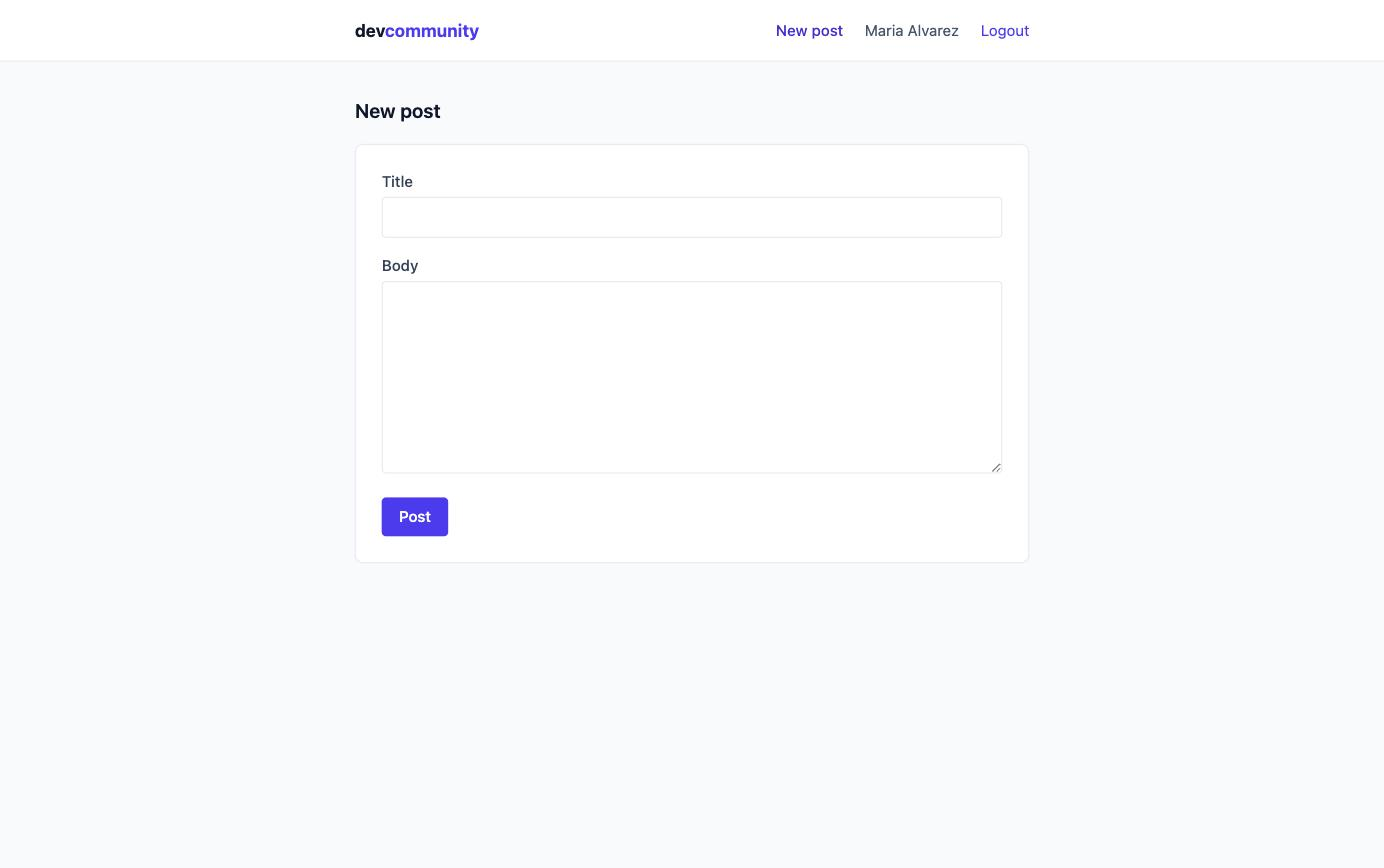
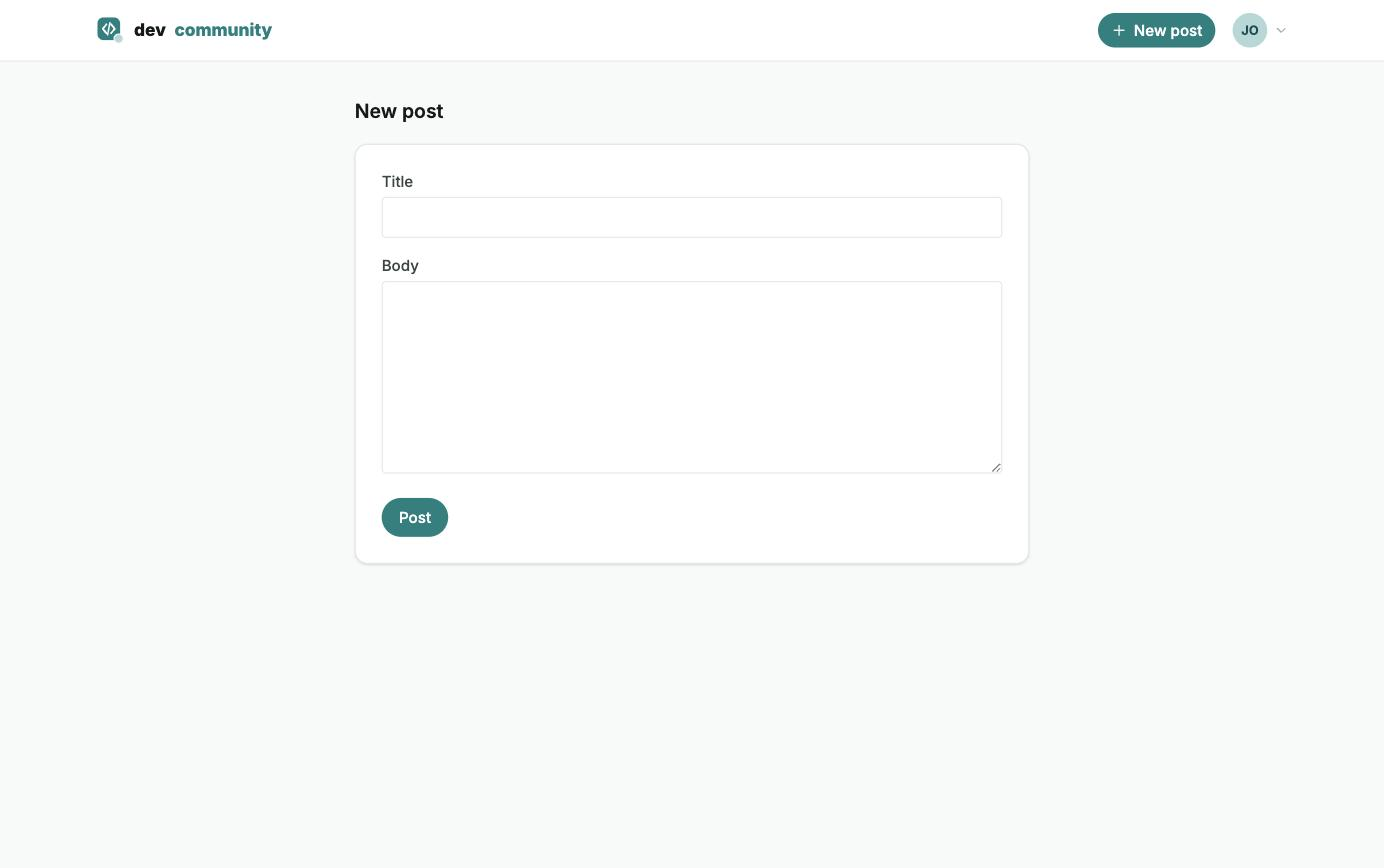
Document the Reddit redesign as phase 4, fix a stale spec note, refresh README screenshots
Adds docs/specs and docs/plans for phase-4-reddit-redesign (spec-driven,
matching this repo's existing phase convention), an ADR for adopting
lucide-react, and a CLAUDE.md update covering the new frontend design
tokens/icons/layout plus a documented code-comments convention.

Also fixes a pre-existing, unrelated bug in the phase-2 frontend spec: it
claimed there was no endpoint to check the current user's existing
reaction, but GET /api/reactions/me/:targetType/:targetId has existed and
worked all along.

README changes: logo banner, a prominent callout to run the seed script on
a fresh clone, corrected demo-post count (6 -> 16), screenshots restacked
one-per-row at full width instead of a 2x2 table, and all 4 screenshots
recaptured from the restyled app.

Claude-Session: https://claude.ai/code/session_01JCxRTBKQxqcHXxRkXYYLWt

diff --git a/README.md b/README.md
@@ -1,16 +1,22 @@
+<p align="center"><img src="client/src/assets/logo.svg" width="72" alt="DevCommunity logo" /></p>
+
 # Dev Community Platform
 
 A developer community app — posts, threaded comments, like/dislike reactions, a ranked feed, and developer profiles (skills + experience). Built for the 6sense Agentic Software Engineer intern take-home assignment (see `Agentic Engineering Intern Assignement.md` and `docs/PRD.md` for product intent).
 
 ## Screenshots
 
-| Ranked feed | Post detail + threaded comments |
-|---|---|
-| ![Feed](docs/screenshots/feed.jpg) | ![Post detail](docs/screenshots/post-detail.jpg) |
+**Ranked feed**
+![Feed](docs/screenshots/feed.jpg)
 
-| Developer profile (skills + experience) | New post |
-|---|---|
-| ![Profile](docs/screenshots/profile.jpg) | ![New post](docs/screenshots/new-post.jpg) |
+**Post detail + threaded comments**
+![Post detail](docs/screenshots/post-detail.jpg)
+
+**Developer profile (skills + experience)**
+![Profile](docs/screenshots/profile.jpg)
+
+**New post**
+![New post](docs/screenshots/new-post.jpg)
 
 ## Tech stack
 
@@ -21,7 +27,7 @@ A developer community app — posts, threaded comments, like/dislike reactions, 
 | Frontend | Vite + React SPA, JavaScript/JSX, React Router, TanStack Query, Tailwind CSS |
 | Testing | Jest unit tests for the backend services layer (see [Tests](#tests)) |
 
-See `docs/adr/` for the reasoning behind each of these choices.
+See `docs/adr/` for the reasoning behind each of these choices. Icons are from `lucide-react` (ADR 0009); the logo is a hand-authored SVG mark at `client/src/assets/logo.svg`.
 
 ## Architecture overview
 
@@ -121,6 +127,8 @@ npm run dev                # starts on http://localhost:4000, auto-restarts on f
 ```
 
 `JWT_SECRET` has no default and the server refuses to boot without it (see `src/config/env.js`) — set it to any long random string, e.g. generate one with `node -e "console.log(require('crypto').randomBytes(32).toString('hex'))"`. You should see `Server listening on http://localhost:4000` in the terminal once it's up; leave this terminal running.
+
+> 🌱 **Run the seed script.** A fresh clone starts with an empty database. Run `npm run prisma:seed` (shown above) before opening the app, or the feed will be empty. It populates 6 demo users and 16 long-form posts with comments and reactions, so the app looks like a real, active platform from the first page load — see [Testing the app](#testing-the-app) for login credentials and a full walkthrough.
 
 If you're just running the app rather than changing `schema.prisma`, `npx prisma migrate deploy` applies the existing migrations non-interactively (no migration-name prompt) — use that instead of `migrate dev` if you want a fully scripted setup.
 
@@ -234,7 +242,9 @@ npm test
 
 ## Testing the app
 
-`npm run prisma:seed` (run once, from `server/`, after migrating) wipes and repopulates the database with 6 demo users, 6 posts, comments, and reactions — the same data shown in the screenshots above. It's safe to re-run any time; it deletes existing rows first, so only use it against your local dev database.
+> **New here?** Run `npm run prisma:seed` first (see Step 3 above) — everything below assumes a seeded database.
+
+`npm run prisma:seed` (run once, from `server/`, after migrating) wipes and repopulates the database with 6 demo users, 16 posts, comments, and reactions — the same kind of data shown in the screenshots above. It's safe to re-run any time; it deletes existing rows first, so only use it against your local dev database.
 
 | Name | Email | Password |
 |---|---|---|
@@ -260,7 +270,7 @@ With both servers running and the DB seeded:
 1. **Browse the feed (logged out).** Open `http://localhost:5174` — you'll see the ranked "TOP POSTS" list with like/dislike/comment counts. Reaction buttons are disabled and read "Log in to react".
 2. **Log in.** Click **Login** (top right), enter one of the demo emails/`Password123!` from the table above. The navbar swaps to **New post / \<Your name\> / Logout**.
 3. **Open a post.** Click any post title to see its full body, reaction counts, and threaded comments.
-4. **React.** Click the like/dislike arrows on the post (or on any comment) — the count updates immediately; clicking your own active reaction again removes it, clicking the other one switches it (one reaction per user per target). Reload the page — the highlight survives, since it's fetched from the server.
+4. **React.** Click the heart (like) or thumbs-down (dislike) button on the post (or on any comment) — the count updates immediately; clicking your own active reaction again removes it, clicking the other one switches it (one reaction per user per target). Reload the page — the highlight survives, since it's fetched from the server.
 5. **Comment.** Type in "Add a comment" and click **Post comment** — it appears at the bottom of the thread. Click **Reply** under an existing comment to add a threaded reply.
 6. **Create a post.** Click **New post** in the navbar, fill in Title/Body, submit — you're taken to the new post, and it appears in the feed ranked by the formula below.
 7. **Edit your profile.** Click your name in the navbar to open your profile: add/remove skills via the "Add a skill" input, and add a work experience entry (title, company, dates, description) via **+ Add experience**; existing entries have **Edit**/**Delete**.

diff --git a/docs/specs/phase-4-reddit-redesign/spec.md b/docs/specs/phase-4-reddit-redesign/spec.md
@@ -1,0 +1,38 @@
+# Phase 4 Spec: Reddit-Style UI Redesign & Seed Expansion
+
+Maps to `docs/plans/phase-4-reddit-redesign/plan.md`. Depends on Phase 3 being complete — this phase is a follow-on visual/content pass requested after the original assignment submission, not a fix to Phase 1-3 gaps.
+
+## Goal
+Make the app look and feel like a real, populated developer community platform — visually modeled on Reddit — instead of an unstyled functional scaffold, and give a fresh clone enough realistic demo content to make that first impression land. This is a **UI/content-only** phase: no Prisma schema changes, no new API endpoints, no new data concepts (no subreddits/communities, no karma, no search — the PRD's flat, single-feed model is unchanged).
+
+## Deliverables & Acceptance Criteria
+
+### 1. Design system
+- A Tailwind v4 `@theme` token system in `client/src/index.css`: a `--color-brand-*` teal ramp anchored on 5 product-specified hex values, a `--color-chrome-*` neutral ramp (replacing stock Tailwind `slate`/`gray`), and two accent tokens — `--color-like` (red) and `--color-dislike` (brand teal) — kept separate from the brand ramp since "like" needs a universally recognizable red.
+- `Inter` (UI) and `IBM Plex Mono` (existing monospace usage) loaded via Google Fonts in `client/index.html`.
+
+### 2. Icons & logo
+- `lucide-react` adopted as the one icon library (see ADR 0009), replacing hand-rolled inline SVGs in touched components.
+- Reactions use a filled red `Heart` for like and a `ThumbsDown` for dislike (previously green/red up/down arrows).
+- A hand-authored SVG logo mark (`client/src/assets/logo.svg`, plus a simplified `client/public/favicon.svg`) used in the navbar, login/register pages, and the README header.
+
+### 3. Layout
+- A new `AppShell` component (left nav rail + content + right sidebar) applied to the feed and post-detail pages, modeled on Reddit's chrome. Left rail links only to real routes (Home, My Profile); right sidebar is static "About" copy plus a real Create Post CTA — no invented data (member counts, fake nav items).
+- Login, register, new-post, profile, and 404 keep a simpler centered/single-column treatment, matching how Reddit itself treats those page types.
+
+### 4. Component restyle
+- `PostCard` restructured into a two-column Reddit shape: vertical vote rail (heart/count/thumbs-down/count) + title/meta/body-preview/comment-count.
+- `ReactionButtons` gains an `orientation` prop (vertical for cards, horizontal for detail/comments) and shows like/dislike counts separately (not a collapsed net score), since the API/spec expose both.
+- Every other page and shared component (`Navbar`, `CommentThread`/`CommentForm`, `ProfilePage` + skills/experience, `EmptyState`/`ErrorBanner`/`LoadingSpinner`, `NotFoundPage`) recolored onto the new token system.
+
+### 5. Seed data
+- 10 additional long-form demo posts appended to `server/prisma/seed.js` (16 total), spanning realistic dev-community topics with varied, believable engagement (including at least one contested post with real dislikes, and a low-reaction "sleeper" carried by its comment thread) so the ranking algorithm produces a plausible mix on a fresh seed.
+
+### 6. Docs
+- `docs/specs/phase-2-frontend/spec.md`'s stale "no endpoint to check current reaction" note corrected (the endpoint exists and is used) — an independent, pre-existing doc bug found and fixed alongside this phase.
+- Root `README.md`: logo banner, a prominent callout that a fresh clone must run `npm run prisma:seed` before the feed shows anything, corrected demo-post count, and screenshots recaptured from the restyled app.
+- `CLAUDE.md` updated with the new frontend design-system conventions (tokens, icon library, `AppShell`) so future sessions build on them consistently.
+- Explanatory comments added across the codebase (backend and frontend) — favoring the *why* behind non-obvious logic over restating *what* the code does, per this project's own comment convention (see `CLAUDE.md`).
+
+## Out of Scope
+Subreddits/communities, karma, search/filter, markdown rendering, optimistic reaction updates beyond what Phase 2 already had — none of these are introduced here; the PRD's out-of-scope section (§6) still governs.

diff --git a/docs/plans/phase-4-reddit-redesign/plan.md b/docs/plans/phase-4-reddit-redesign/plan.md
@@ -1,0 +1,25 @@
+# Phase 4 Plan: Reddit-Style UI Redesign & Seed Expansion
+
+Implements `docs/specs/phase-4-reddit-redesign/spec.md`. Depends on Phase 3 being complete.
+
+## Steps
+
+1. **Docs first**: add ADR 0009 (`lucide-react` as the icon library), a "Frontend Design System" section in `CLAUDE.md`, and fix the stale "no endpoint to check current reaction" line in `docs/specs/phase-2-frontend/spec.md` — before touching UI code, per this project's spec-driven convention.
+2. **Design tokens**: add a Tailwind v4 `@theme` block to `client/src/index.css` (brand teal ramp from the 5 given hex values, a chrome neutral ramp, `like`/`dislike` accent tokens); load `Inter`/`IBM Plex Mono` via `client/index.html`.
+3. **Icons**: `npm install lucide-react` in `client/`; swap hand-rolled inline SVGs for lucide icons in every touched component.
+4. **Logo**: author `client/src/assets/logo.svg` and a simplified `client/public/favicon.svg`; wire into `Navbar`, `LoginPage`/`RegisterPage`, and the README header.
+5. **Layout**: build `client/src/components/layout/AppShell.jsx` (left rail / content / right sidebar); apply to `FeedPage` and `PostDetailPage`.
+6. **Component restyle**: rework `PostCard` (two-column vote-rail layout) and `ReactionButtons` (new `orientation` prop, heart/thumbs-down icons, separate like/dislike counts); recolor every other page/component (`Navbar`, `CommentThread`, `CommentForm`, `ProfilePage` + skills/experience editors, `EmptyState`/`ErrorBanner`/`LoadingSpinner`, `NotFoundPage`, `NewPostPage`/`PostForm`) off the new token system.
+7. **Seed data**: append 10 long-form posts to `server/prisma/seed.js`'s `posts` array (16 total), with varied authors/timestamps/engagement so the ranking formula produces a believable mix.
+8. **README**: add the logo banner, a prominent "run the seed script" callout, fix the hardcoded post count, and recapture the 4 screenshots from the restyled running app — one column, full width, so each is legible without a table.
+9. **Verification**: `npm run lint` (client, oxlint) and `npm test` (server, Jest) both clean; manually exercise login/register/feed/post-detail/new-post/profile in the browser; confirm heart/thumbs-down reactions toggle, persist across reload, and match seeded state for a real logged-in user.
+10. **Code comments pass**: go through the backend (`server/src`, `server/prisma/seed.js`) and frontend (`client/src`) and add explanatory comments favoring the *why* over restating *what*, per the convention now stated in `CLAUDE.md`.
+
+## Verification
+- `cd client && npm run lint` clean (only the pre-existing, unrelated `AuthContext.jsx` fast-refresh warning).
+- `cd server && npm test` — all pre-existing Jest suites still pass (comment additions are non-functional).
+- `npm run prisma:seed` logs "Seeded 16 posts across 6 demo users."
+- Manual browser walkthrough of every page confirms the new palette/logo/icons render, the vote rail and sidebar appear at desktop width, and reactions persist across reload.
+
+## Exit Criteria
+`main` reflects the redesigned UI, expanded seed data, and updated docs, with no regression to Phase 1-3 functionality or test coverage.

diff --git a/docs/specs/phase-2-frontend/spec.md b/docs/specs/phase-2-frontend/spec.md
@@ -33,7 +33,8 @@ A React SPA (JavaScript/JSX) covering every screen the assignment requires, each
 - Clicking like/dislike calls `POST /api/reactions`; the UI reflects the new count/state **without a full page reload** — implemented via TanStack Query cache invalidation of the relevant post/comment query, not a manual `window.location.reload()` or full re-fetch of unrelated data.
 - Clicking an already-active reaction removes it (`DELETE /api/reactions/:targetType/:targetId`).
 - Reaction controls are hidden or disabled (not merely non-functional) for unauthenticated visitors, with a clear affordance to log in.
-- **Known API gap**: there is no endpoint to fetch "does the current user already have a reaction on X" — only `POST /api/reactions` and `DELETE /api/reactions/:targetType/:targetId` exist. The frontend tracks each reaction's "active" state client-side, per session (via component state), which resets on a page reload rather than persisting.
+- The current user's existing reaction on a target is fetched via `GET /api/reactions/me/:targetType/:targetId` (`useMyReaction`), so active like/dislike state is server-sourced and persists across reload/navigation rather than resetting per session.
+- Visually, reactions render as a vertical vote rail (like on top, dislike below, each with its own count) on feed cards, and as a horizontal row near the title/body on the post-detail page and on each comment — both driven by the same `ReactionButtons` component's `orientation` prop, no separate data contract.
 
 ### Profile (F6)
 - `/profile/:userId` shows a developer's name, bio, skills, and experiences via `GET /api/users/:id`.

diff --git a/docs/adr/0009-frontend-icon-library-lucide-react.md b/docs/adr/0009-frontend-icon-library-lucide-react.md
@@ -1,0 +1,15 @@
+# ADR 0009: lucide-react as the icon library
+
+## Status
+Accepted
+
+## Context
+The frontend has no icon library (ADR 0003's dependency list is Tailwind CSS + TanStack Query + React Router only). Every icon so far — back arrows, spinners, error markers — is a hand-rolled inline SVG duplicated per component. The Reddit-style redesign needs a consistent set of icons (heart/thumbs-down for reactions, comment/menu/nav icons) across many components, which makes hand-rolling each one error-prone and inconsistent in stroke width/viewBox.
+
+## Decision
+Adopt `lucide-react` as the one icon library for the frontend. Import icons as components (`import { Heart, ThumbsDown } from "lucide-react"`) rather than continuing to inline `<svg>` markup for new icons.
+
+## Consequences
+- One new frontend dependency (`client/package.json`); tree-shakeable (only imported icons ship), no runtime CSS, and its default stroke-based style matches the look the hand-rolled SVGs were already going for, so the visual change is additive rather than a style clash.
+- Existing hand-rolled SVGs in touched components (back-arrow, spinner, error icon, empty-state icon) are replaced by the equivalent lucide icon as those components are edited; hand-rolled SVGs in untouched components are left alone rather than churned for their own sake.
+- `client/public/icons.svg` (an unused social-icon sprite predating this ADR) is unaffected — it was already dead code and this decision doesn't change that.
